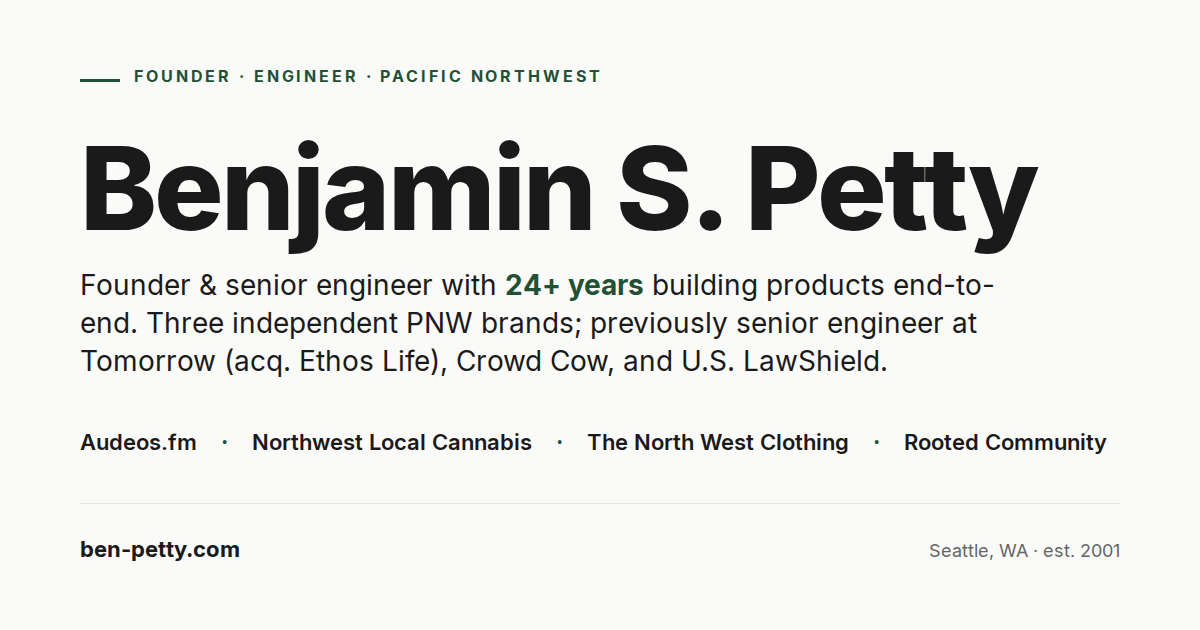
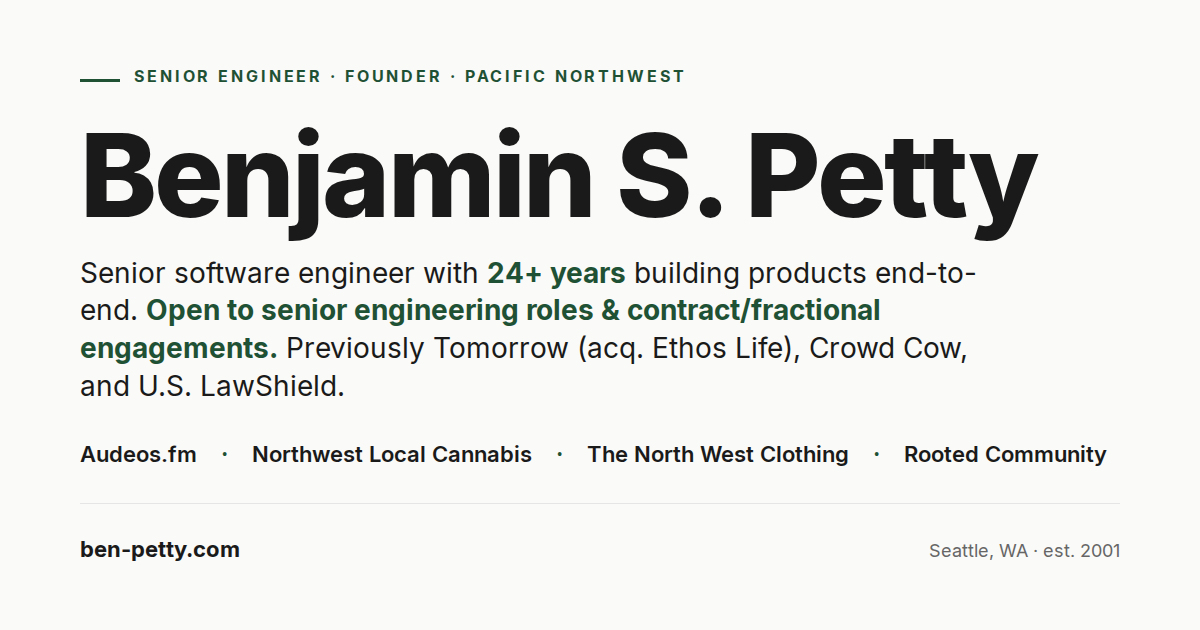
chore: deploy from ben-petty.com@94d02db

diff --git a/index.html b/index.html
@@ -4,8 +4,8 @@
   <meta charset="UTF-8">
   <meta name="viewport" content="width=device-width, initial-scale=1">
 
-  <title>Benjamin S. Petty — Founder & Engineer</title>
-  <meta name="description" content="Founder and senior engineer building independent Pacific Northwest brands — Audeos.fm, Northwest Local Cannabis, The North West Clothing, Rooted Community.">
+  <title>Benjamin S. Petty — Senior Software Engineer & Founder</title>
+  <meta name="description" content="Senior software engineer with 24+ years shipping products end-to-end. Open to senior engineering roles and contract/fractional engagements. Building four independent Pacific Northwest brands — Audeos.fm, Northwest Local Cannabis, The North West Clothing, Rooted Community.">
   <meta name="author" content="Benjamin S. Petty">
 
   <link rel="canonical" href="https://ben-petty.com/">
@@ -15,21 +15,21 @@
   <meta property="og:type" content="profile">
   <meta property="og:url" content="https://ben-petty.com/">
   <meta property="og:site_name" content="ben-petty.com">
-  <meta property="og:title" content="Benjamin S. Petty — Founder & Engineer">
-  <meta property="og:description" content="Founder and senior engineer with 24+ years building products end-to-end. Three independent Pacific Northwest brands; previously Tomorrow (acq. Ethos Life), Crowd Cow, U.S. LawShield.">
+  <meta property="og:title" content="Benjamin S. Petty — Senior Software Engineer & Founder">
+  <meta property="og:description" content="Senior software engineer with 24+ years building products end-to-end. Open to senior engineering roles and contract/fractional engagements. Previously Tomorrow (acq. Ethos Life), Crowd Cow, U.S. LawShield.">
   <meta property="og:image" content="https://ben-petty.com/og-image.png">
   <meta property="og:image:width" content="1200">
   <meta property="og:image:height" content="630">
-  <meta property="og:image:alt" content="Benjamin S. Petty — Founder & Engineer · Pacific Northwest. Audeos.fm, Northwest Local Cannabis, The North West Clothing, Rooted Community.">
+  <meta property="og:image:alt" content="Benjamin S. Petty — Senior Software Engineer & Founder · Pacific Northwest. Audeos.fm, Northwest Local Cannabis, The North West Clothing, Rooted Community.">
   <meta property="profile:first_name" content="Benjamin">
   <meta property="profile:last_name" content="Petty">
 
   <!-- Twitter Card -->
   <meta name="twitter:card" content="summary_large_image">
-  <meta name="twitter:title" content="Benjamin S. Petty — Founder & Engineer">
-  <meta name="twitter:description" content="Founder and senior engineer with 24+ years building products end-to-end. Three independent Pacific Northwest brands.">
+  <meta name="twitter:title" content="Benjamin S. Petty — Senior Software Engineer & Founder">
+  <meta name="twitter:description" content="Senior software engineer with 24+ years building products end-to-end. Open to senior engineering roles and contract/fractional engagements.">
   <meta name="twitter:image" content="https://ben-petty.com/og-image.png">
-  <meta name="twitter:image:alt" content="Benjamin S. Petty — Founder & Engineer · Pacific Northwest.">
+  <meta name="twitter:image:alt" content="Benjamin S. Petty — Senior Software Engineer & Founder · Pacific Northwest.">
 
   <!-- Favicon -->
   <link rel="icon" type="image/svg+xml" href="favicon.svg">
@@ -45,7 +45,7 @@
     "alternateName": "Benny Petty",
     "url": "https://ben-petty.com/",
     "image": "https://ben-petty.com/og-image.png",
-    "jobTitle": "Founder & Engineer",
+    "jobTitle": "Senior Software Engineer",
     "address": { "@type": "PostalAddress", "addressLocality": "Seattle", "addressRegion": "WA", "addressCountry": "US" },
     "sameAs": [
       "https://linkedin.com/in/benjaminpetty",
@@ -68,8 +68,8 @@
 
 <header class="hero">
   <h1>Benjamin S. Petty</h1>
-  <p class="tagline">Founder · Engineer · Pacific Northwest</p>
-  <p class="bio">Founder and senior engineer with 24+ years building products end-to-end. Currently running three independent Pacific Northwest brands plus pro-bono engineering for a Washington nonprofit; previously senior engineer at Tomorrow (acq. Ethos Life), Crowd Cow, and U.S. LawShield.</p>
+  <p class="tagline">Senior Engineer · Founder · Pacific Northwest</p>
+  <p class="bio">Senior software engineer with 24+ years building products end-to-end — currently designing, building, and operating production systems across four independent Pacific Northwest brands; previously senior engineer at Tomorrow (acq. Ethos Life), Crowd Cow, and U.S. LawShield. <strong>Open to senior engineering roles and contract/fractional engagements.</strong></p>
   <p class="cta-row">
     <a class="cta" href="https://cal.com/benpetty">Book a call <span aria-hidden="true">→</span></a>
     <span class="cta-hint">cal.com/benpetty</span>
@@ -105,19 +105,21 @@
 <main id="resume">
 <article class="resume">
 <h1 id="benjamin-s.-petty">Benjamin S. Petty</h1>
-<p><strong>Founder &amp; Engineer</strong> · Seattle, WA · (206)
-353-9874 · benjamin.s.petty@gmail.com · linkedin.com/in/benjaminpetty ·
-github.com/benpetty</p>
+<p><strong>Senior Software Engineer &amp; Founder</strong> · Seattle, WA
+· (206) 353-9874 · benjamin.s.petty@gmail.com ·
+linkedin.com/in/benjaminpetty · github.com/benpetty</p>
 <hr />
-<p>Founder and senior engineer with 24+ years of building products
-end-to-end — from the 2001 launch of an independent Pacific Northwest
-apparel brand through eight years as a senior engineer at SaaS companies
-(Tomorrow Ideas, acq. Ethos Life; Crowd Cow; U.S. LawShield). Currently
-running three consumer-facing businesses across cannabis, music
-streaming, and apparel — co-founder on Northwest Local Cannabis, solo
-founder/engineer on the others, owning design, engineering, deploy, and
-operations end-to-end — plus pro-bono engineering for Rooted Community,
-a Washington nonprofit.</p>
+<p>Senior software engineer with 24+ years shipping products end-to-end
+— eight years on SaaS engineering teams (Tomorrow Ideas, acq. Ethos
+Life; Crowd Cow; U.S. LawShield) plus a decade-plus building and
+operating independent ventures. Currently designing, building, and
+running production systems across four Pacific Northwest brands: Phoenix
+LiveView realtime infrastructure, Astro/Sanity content platforms, and
+Shopify commerce tooling — full-stack from realtime backends through
+deploy, telemetry, and on-call. Equally at home owning a service
+end-to-end or contributing on an established team.</p>
+<p><strong>Open to senior engineering roles and contract/fractional
+engagements.</strong></p>
 <hr />
 <h2 id="current-ventures-2021present">Current Ventures ·
 2021–Present</h2>

diff --git a/README.md b/README.md
@@ -1,8 +1,8 @@
 # Benjamin S. Petty
 
-> Founder · Engineer · Pacific Northwest
+> Senior Software Engineer & Founder · Pacific Northwest
 
-Founder and senior engineer with 24+ years building products end-to-end. Currently running four consumer-facing PNW brands; previously senior engineer at Tomorrow (acq. Ethos Life), Crowd Cow, and U.S. LawShield.
+Senior software engineer with 24+ years building products end-to-end — currently designing, building, and operating production systems across four independent Pacific Northwest brands; previously senior engineer at Tomorrow (acq. Ethos Life), Crowd Cow, and U.S. LawShield. **Open to senior engineering roles and contract/fractional engagements.**
 
 ## Currently building
 
